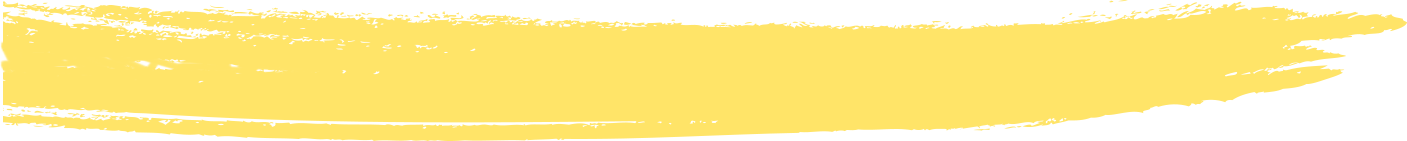
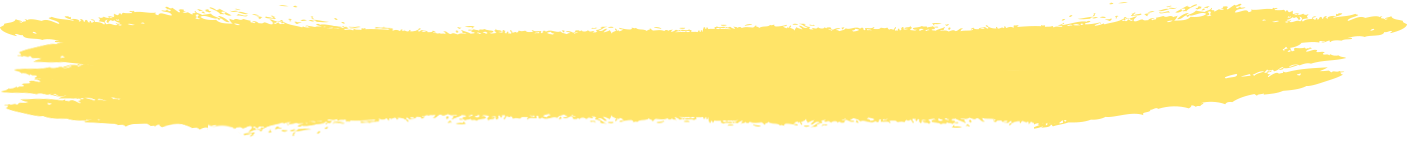
Subscribe Email Secion and Nav bar

diff --git a/assets/css/style.css b/assets/css/style.css
@@ -435,7 +435,7 @@ header.header-area {
     left: 0;
 }
 .navbar-nav.hp-1-nav {
-    background-image: url(../images/nav-backg.png);
+    background-image: url(../images/nav-backg0.png);
     left: 172px;
     width: 90%;
     height: 100px;
@@ -1547,7 +1547,7 @@ span.learn-li {
     content: '';
     height: 100%;
     width: 100%;
-    background-image: url(../images/nav-backg.png);
+    background-image: url(../images/nav-backg0.png);
     background-size: 100% 100%;
     top: 0;
     left: 100px;
@@ -1625,14 +1625,14 @@ input.form-control.sp-in4::placeholder {
     margin-left: auto;
     position: relative;
 }
-.sp-logo {
+/* .sp-logo {
     position: absolute;
     top: 1px;
     left: -61px;
 }
 .sp-logo img {
     width: 77%;
-}
+} */
 
 input.form-control.sp-in7 {
     background-color: #1aa0ff;

diff --git a/index.html b/index.html
@@ -545,9 +545,9 @@
             <div class="row">
                 <div class="col-md-12">
                     <div class="subscribe-top">
-                        <div class="sp-logo">
+                        <!-- <div class="sp-logo">
                             <img src="assets/images/logo.png" alt="">
-                        </div>
+                        </div> -->
                         <div class="sp-subscription-form">
                             <div class="sp-input">
                                 <h4>Subscribe Us Now :</h4>
